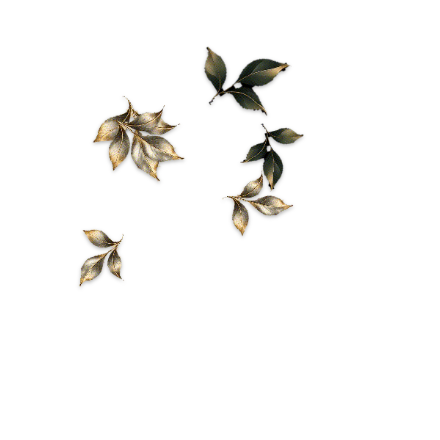
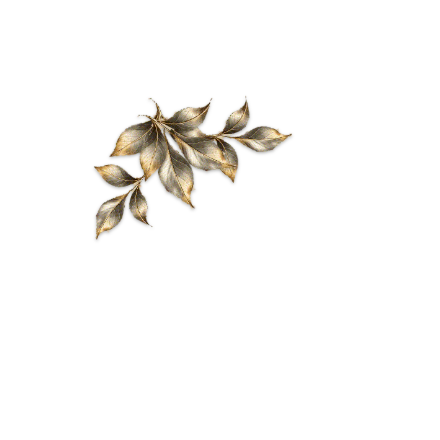
Make leaves larger across branches, garlands, footer vine, ribbon and falling decoration

Changed region(s): [[0.1773, 0.0886, 0.7091, 0.65]]

diff --git a/src/components/DecorFrame.jsx b/src/components/DecorFrame.jsx
@@ -14,10 +14,10 @@ function framePath(w, h, radii) {
 
 // A small leafy sprig drawn for the top-left corner; the other corners mirror it. Leaves unfurl one after another.
 const BLOOMS = [
-  { x: 8, y: 33, s: 32, v: 'gold', r: -40 },
-  { x: 14, y: 21, s: 38, v: 'olive', r: -5 },
-  { x: 26, y: 12, s: 34, v: 'gold', r: 35 },
-  { x: 40, y: 8, s: 30, v: 'olive', r: 65 },
+  { x: 8, y: 33, s: 40, v: 'gold', r: -40 },
+  { x: 14, y: 21, s: 48, v: 'olive', r: -5 },
+  { x: 26, y: 12, s: 44, v: 'gold', r: 35 },
+  { x: 40, y: 8, s: 38, v: 'olive', r: 65 },
 ];
 const MIRROR = { tl: 'none', tr: 'scaleX(-1)', br: 'scale(-1,-1)', bl: 'scaleY(-1)' };
 
@@ -68,7 +68,7 @@ export default function DecorFrame({ inset = 12, radii = [2, 2, 2, 2], corners =
   const h = Math.max(0, box.h);
   const big = w >= 220 && h >= 170;
   const size = Math.max(34, Math.min(64, Math.min(w, h) / 6));
-  const floraSize = Math.max(76, Math.min(floraMax, Math.min(w, h) / 2.6));
+  const floraSize = Math.max(76, Math.min(floraMax, Math.min(w, h) / 2.1));
   const margin = floraSize * 0.82;
   const edge = (len) => Math.max(0, Math.floor((len - margin * 2) / 74));
   const spots = [];
@@ -119,7 +119,7 @@ export default function DecorFrame({ inset = 12, radii = [2, 2, 2, 2], corners =
       {big && corners.filter((c) => !flora.includes(c) && !floraSmall.includes(c)).map((c) => <Sprig key={`${c}-${replayKey}`} corner={c} size={size} offset={4} on={on} delay={delay + 1.1} reduce={reduce} />)}
       {big && spots.slice(0, 26).map((p, i) => (
         <span key={`g${i}`} className="decor-garland" style={{ left: p.x, top: p.y, '--d': `${delay + 1.5 + i * 0.045}s` }}>
-          <span>{i % 3 === 2 ? <i className="decor-garland__dot" /> : <GarlandBlossom index={i} size={i % 2 ? 24 : 30} />}</span>
+          <span>{i % 3 === 2 ? <i className="decor-garland__dot" /> : <GarlandBlossom index={i} size={i % 2 ? 32 : 40} />}</span>
         </span>
       ))}
       {big && floraSmall.map((c) => <Flora key={`s${c}`} corner={c} size={floraSize * 0.64} offset={floraOffset} on={on} delay={delay + 1.35} />)}

diff --git a/src/components/Ambient.jsx b/src/components/Ambient.jsx
@@ -52,17 +52,17 @@ export default function SectionDecor({ tone = 'light' }) {
       {tone === 'dark' ? (
         <>
           {SPOTS.map((p, i) => <span key={i} className="ambient__spot" style={{ left: `${p.x}%`, top: `${p.y}%`, width: p.s, height: p.s, animationDuration: `${p.d}s` }} />)}
-          <Flora corner="tr" size={150} offset={6} on={live} className="flora--edge" />
-          <Flora corner="bl" size={150} offset={6} on={live} delay={0.4} className="flora--edge flora--edge-br" />
+          <Flora corner="tr" size={170} offset={6} on={live} className="flora--edge" />
+          <Flora corner="bl" size={170} offset={6} on={live} delay={0.4} className="flora--edge flora--edge-br" />
           {live && <Petals />}
           {live && FALL.filter((_, i) => i % 3 !== 2).map((l, i) => (
-            <Blossom key={i} className="ambient__leaf ambient__flower" variant={i % 2 ? 'gold' : 'olive'} size={l.s + 30} style={{ left: `${l.x}%`, '--dx': `${l.dx}px`, '--r': `${l.r}deg`, animationDuration: `${l.d}s`, animationDelay: `${l.t}s` }} />
+            <Blossom key={i} className="ambient__leaf ambient__flower" variant={i % 2 ? 'gold' : 'olive'} size={l.s + 44} style={{ left: `${l.x}%`, '--dx': `${l.dx}px`, '--r': `${l.r}deg`, animationDuration: `${l.d}s`, animationDelay: `${l.t}s` }} />
           ))}
         </>
       ) : (
         <>
-          <Flora corner="tl" size={160} offset={6} on={live} className="flora--edge" />
-          <Flora corner="br" size={160} offset={6} on={live} delay={0.4} className="flora--edge flora--edge-br" />
+          <Flora corner="tl" size={180} offset={6} on={live} className="flora--edge" />
+          <Flora corner="br" size={180} offset={6} on={live} delay={0.4} className="flora--edge flora--edge-br" />
           {live && <Petals />}
         </>
       )}

diff --git a/src/components/Footer.jsx b/src/components/Footer.jsx
@@ -14,14 +14,14 @@ function Vine() {
       {VINE.map((l, i) => (
         <g key={i} transform={`translate(${l.x} ${l.up ? 14 : 30})`}>
           <motion.g style={{ transformBox: 'fill-box', transformOrigin: 'center' }} initial={{ scale: 0, rotate: -90 }} whileInView={{ scale: 1, rotate: 0 }} viewport={{ once: true, margin: '-40px' }} transition={{ type: 'spring', stiffness: 130, damping: 11, delay: 0.5 + i * 0.13 }}>
-            <Blossom variant={i % 3 === 0 ? 'pair' : i % 3 === 1 ? 'gold' : 'olive'} size={34} x={-17} y={-17} />
+            <Blossom variant={i % 3 === 0 ? 'pair' : i % 3 === 1 ? 'gold' : 'olive'} size={46} x={-23} y={-23} />
           </motion.g>
         </g>
       ))}
       {VINE.filter((_, i) => i % 2 === 1).map((l, i) => (
         <g key={`b${i}`} transform={`translate(${l.x + 40} ${l.up ? 22 : 24})`}>
           <motion.g style={{ transformBox: 'fill-box', transformOrigin: 'center' }} initial={{ scale: 0, rotate: -60 }} whileInView={{ scale: 1, rotate: 0 }} viewport={{ once: true, margin: '-40px' }} transition={{ type: 'spring', stiffness: 130, damping: 10, delay: 1.1 + i * 0.2 }}>
-            <g className="flora__breath" style={{ animationDelay: `${i * 0.4}s` }}><Blossom variant={BLOSSOM_VARIANTS[i % 5]} size={36} x={-18} y={-18} /></g>
+            <g className="flora__breath" style={{ animationDelay: `${i * 0.4}s` }}><Blossom variant={BLOSSOM_VARIANTS[i % 5]} size={48} x={-24} y={-24} /></g>
           </motion.g>
         </g>
       ))}

diff --git a/src/styles.css b/src/styles.css
@@ -583,7 +583,7 @@ body { background: radial-gradient(900px 520px at 100% -8%, rgba(212, 175, 55, .
 .ribbon:hover .ribbon__track { animation-play-state: paused; }
 .ribbon__row { display: flex; align-items: center; flex: none; }
 .ribbon__item { font-family: var(--font-display); font-size: clamp(22px, 3vw, 34px); padding: 0 30px; white-space: nowrap; }
-.ribbon__star { width: 16px; height: 16px; flex: none; color: var(--sun); animation: star-spin 9s linear infinite; }
+.ribbon__star { width: 34px; height: 34px; flex: none; color: var(--sun); animation: star-spin 9s linear infinite; }
 @keyframes ribbon-scroll { to { transform: translateX(-33.3333%); } }
 @keyframes star-spin { to { transform: rotate(360deg); } }
 .ribbon.is-static .ribbon__track { animation: none; width: auto; flex-wrap: wrap; padding: 0 var(--gutter); }

diff --git a/src/cms/sections/home.jsx b/src/cms/sections/home.jsx
@@ -46,7 +46,7 @@ function HeroSlides({ base, props: p }) {
       onFocus={() => setPaused(true)}
       onBlur={() => setPaused(false)}
     >
-      <DecorFrame className="hero-card__frame" inset={-16} radii={narrow ? [136, 42, 42, 42] : [236, 50, 50, 50]} corners={['tr', 'br', 'bl']} flora={['tr', 'br']} floraSmall={['bl']} floraMax={narrow ? 84 : 138} garland={!narrow} delay={0.6} replayKey={idx} />
+      <DecorFrame className="hero-card__frame" inset={-16} radii={narrow ? [136, 42, 42, 42] : [236, 50, 50, 50]} corners={['tr', 'br', 'bl']} flora={['tr', 'br']} floraSmall={['bl']} floraMax={narrow ? 96 : 150} garland={!narrow} delay={0.6} replayKey={idx} />
       <span className="hero-card__glow" aria-hidden="true" />
       <span className="hero-card__dots" aria-hidden="true" />
       <div className="hero-slides">

diff --git a/src/components/Flora.jsx b/src/components/Flora.jsx
@@ -2,7 +2,7 @@
 // baked from the vector source in FloraArt.jsx so the browser only moves flat pictures (cheap) instead of painting hundreds of shapes.
 const MIRROR = { tl: 'none', tr: 'scaleX(-1)', br: 'scale(-1,-1)', bl: 'scaleY(-1)' };
 const ORIGIN = { tl: '0 0', tr: '100% 0', br: '100% 100%', bl: '0 100%' };
-const V = '9'; // bump when the baked art changes (the server caches images for a year)
+const V = '10'; // bump when the baked art changes (the server caches images for a year)
 const LAYERS = [[`/decor/flora-1.png?v=${V}`, 0], [`/decor/flora-2.png?v=${V}`, 0.5], [`/decor/flora-3.png?v=${V}`, 1]];
 
 /** A bouquet for a frame or section corner. Layers bloom in turn (CSS) once `on`, then the bouquet sways. */

diff --git a/src/cms/sections/marquee.jsx b/src/cms/sections/marquee.jsx
@@ -11,7 +11,7 @@ export function Marquee({ base, props: p }) {
   const run = (copy) => items.map((it, i) => (
     <Fragment key={`${copy}-${i}`}>
       <span className="ribbon__item">{copy === 0 ? <Txt path={`${base}.items.${i}.text`} /> : it.text}</span>
-      <Blossom className="ribbon__star" variant={BLOSSOM_VARIANTS[i % 5]} size={42} />
+      <Blossom className="ribbon__star" variant={BLOSSOM_VARIANTS[i % 5]} size={54} />
     </Fragment>
   ));
   return (
